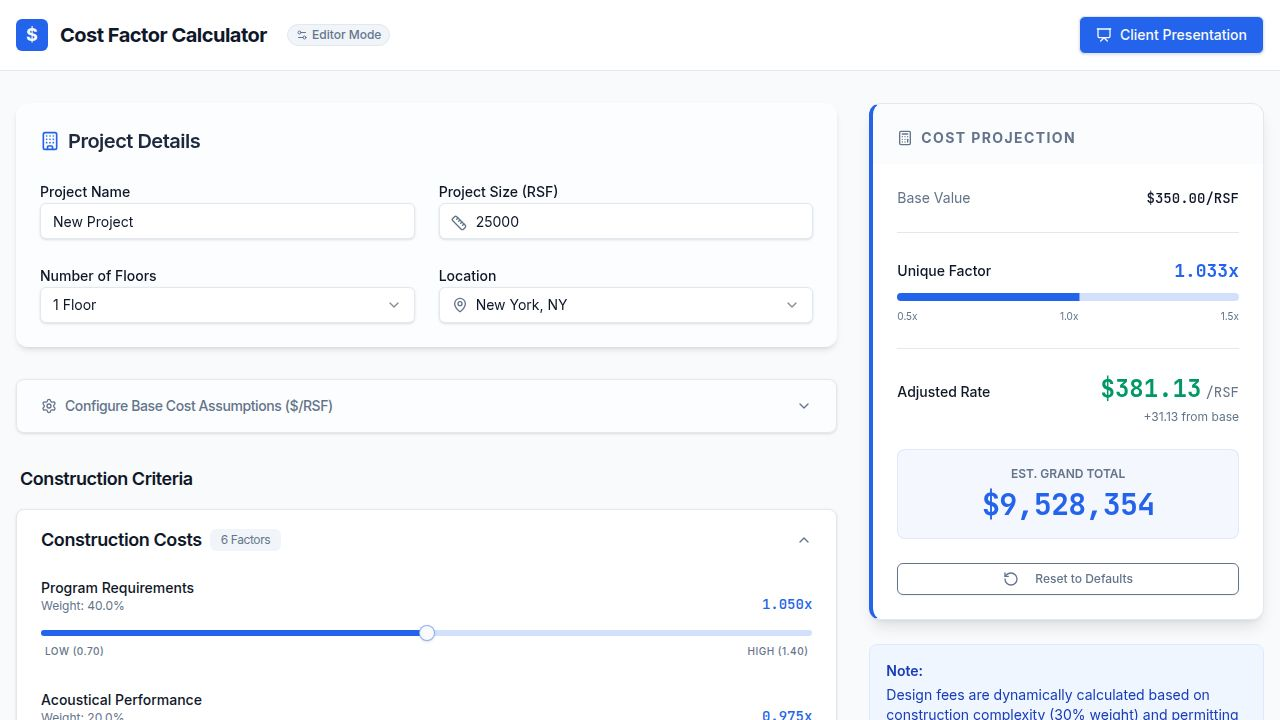
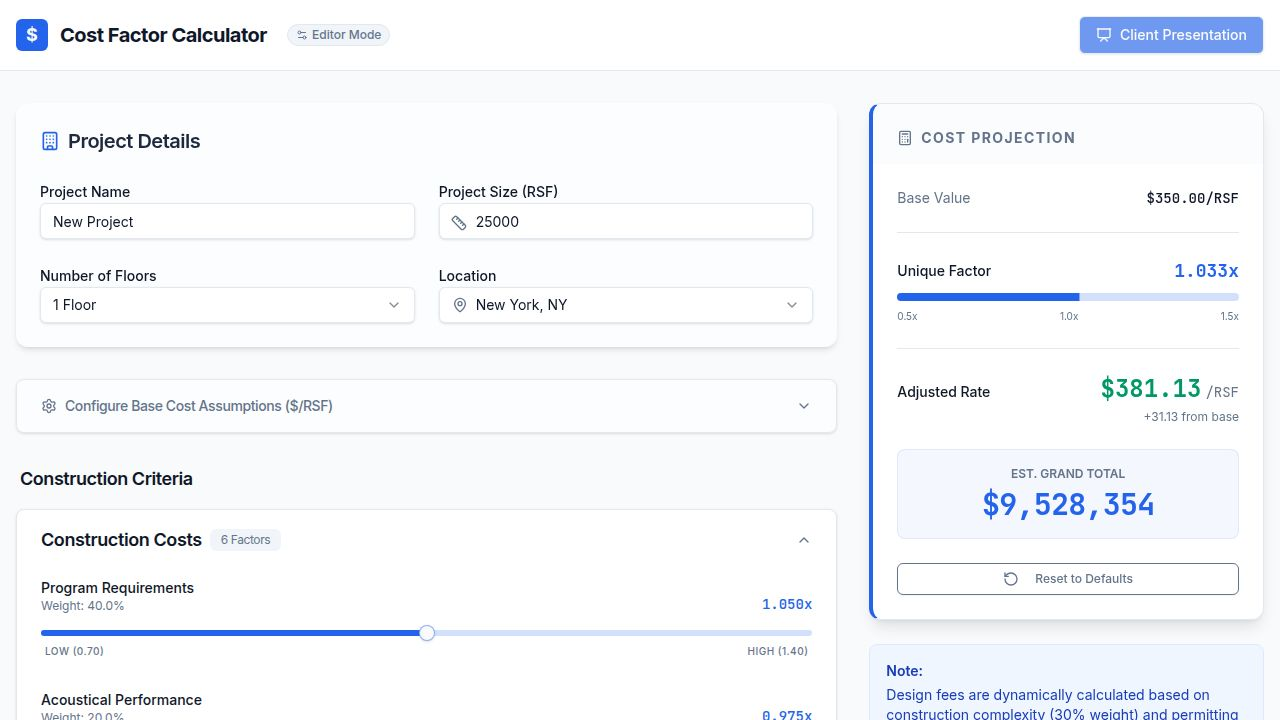
Clarify unique project factor calculation and presentation
Update client presentation page to rename "Project Complexity" to "Project Unique Factor," adjust displayed precision to three decimal places, and provide a clear explanation of its calculation drivers.

Replit-Commit-Author: Agent
Replit-Commit-Session-Id: f4ec1744-3797-4ba5-a0bf-58c00ef06b66
Replit-Commit-Checkpoint-Type: full_checkpoint
Replit-Commit-Event-Id: f52e71c2-e563-460d-b22a-3332d140fe20
Replit-Commit-Screenshot-Url: https://storage.googleapis.com/screenshot-production-us-central1/326dee25-8daa-43f4-86a8-06bfa1d71bcf/f4ec1744-3797-4ba5-a0bf-58c00ef06b66/Umqwyd6
Replit-Helium-Checkpoint-Created: true

Changed region(s): [[0.8438, 0.0, 1.0, 0.0917]]

diff --git a/client/src/pages/presentation.tsx b/client/src/pages/presentation.tsx
@@ -153,20 +153,17 @@ export default function PresentationPage() {
 
           <Card className="bg-white border-slate-100 shadow-sm">
             <CardHeader className="pb-2">
-              <CardTitle className="text-slate-500 text-sm font-medium uppercase tracking-wider">Project Complexity</CardTitle>
+              <CardTitle className="text-slate-500 text-sm font-medium uppercase tracking-wider">Project Unique Factor</CardTitle>
             </CardHeader>
             <CardContent>
               <div className="flex items-end gap-2">
                  <div className="text-3xl md:text-4xl font-serif text-slate-900">
-                  {results.uniqueProjectFactor.toFixed(2)}x
+                  {results.uniqueProjectFactor.toFixed(3)}x
                 </div>
-                <div className="mb-1 text-sm font-medium text-slate-400">Factor</div>
+                <div className="mb-1 text-sm font-medium text-slate-400">Multiplier</div>
               </div>
-              <div className="mt-2 w-full bg-slate-100 h-1.5 rounded-full overflow-hidden">
-                <div 
-                  className="bg-primary h-full rounded-full" 
-                  style={{ width: `${Math.min(100, Math.max(0, ((results.uniqueProjectFactor - 0.5) / 1.0) * 100))}%` }}
-                />
+              <div className="mt-4 text-xs text-slate-400 leading-relaxed">
+                Determined by Project Size, Floor Count, and Location. This global multiplier applies to all cost categories.
               </div>
             </CardContent>
           </Card>
